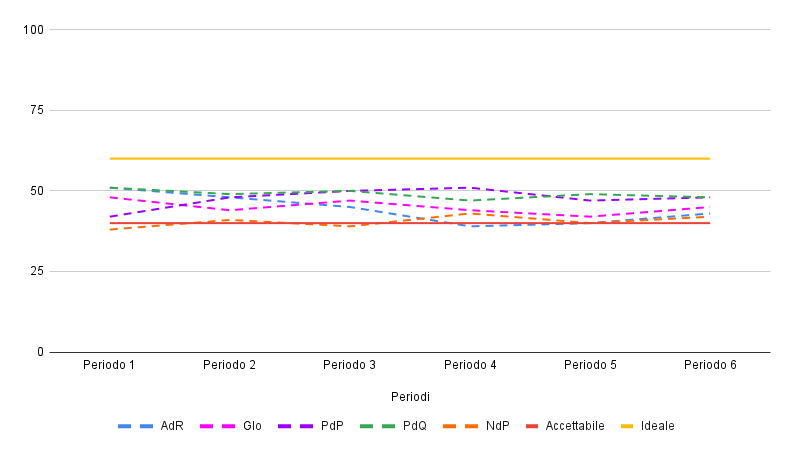
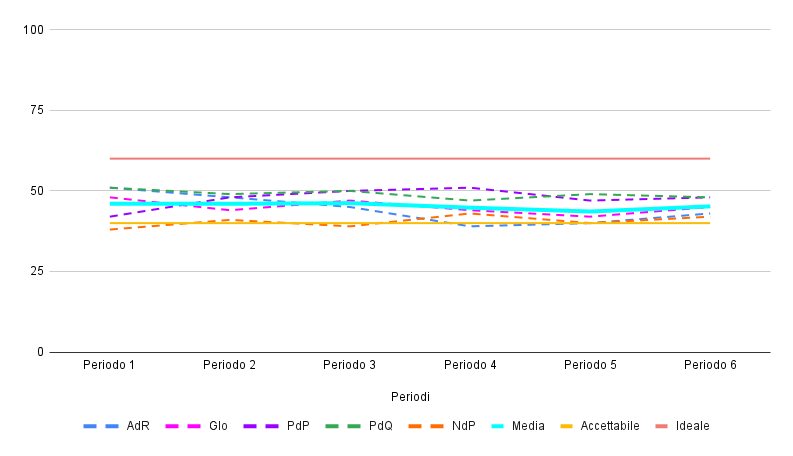
Aggiunta metrica metriche rispettate

Changed region(s): [[0.1211, 0.4298, 0.9079, 0.4912], [0.0908, 0.9211, 0.9079, 0.9518], [0.1513, 0.3377, 0.9079, 0.3684]]

diff --git a/RTB/Piano_di_Qualifica.tex b/RTB/Piano_di_Qualifica.tex
@@ -763,12 +763,22 @@ A questo proposito il gruppo si porrà in futuro l'obiettivo di migliorare il va
 
 
 \subsection{Qualità di processo - Gestione della qualità}
-\subsubsection{MPC01 - Metriche di qualità soddisfatte}
-% Inserire grafico
-\textbf{RTB}: Sul subito tutte le metriche inizialmente stabilite venivano applicate, anche se magari non perfettamente. Grazie al loro numero limitato il team è 
-riuscito ad applicarle ma data l'inesperienza all'inizio ci sono state delle difficoltà. Con il tempo però, l'aggiunta di ulteriori metriche (alcune delle quali 
-sconosciute ai membri del team) ha aumentato ulteriormente la difficoltà. Ma dopo un primo periodo di apprendimento e adeguamento a queste metriche abbiamo superato 
-il limite inferiore.
+\subsubsection{MPC15 - Metriche di qualità soddisfatte}
+
+\begin{figure}[H]
+  \centering
+  \includegraphics[width=0.9\linewidth]{metricheRispettate.png}
+  \caption{Grafico a linee della metrica "metriche di qualità soddisfatte"}
+  \label{fig:metricheRispettate_chart}
+\end{figure}
+
+\textbf{RTB}: Questa metrica rispecchia la capacità del team di rispettare i valori accettabili delle altre metriche misurata nel corso del progetto. Dall'analisi del suo 
+grafico emerge che il gruppo è sempre riuscito a garantire il rispetto di più dell'90\% delle metriche misurate. Ciò è un segnale chiaramente positivo che dimostra
+un buon lavoro del gruppo dal punto di vista della gestione della qualità.\\
+Detto ciò è però bene notare che il gruppo, in solo uno dei precedenti sei periodi, ha raggiunto il valore ideale (100\%), quindi ci sono comunque importanti margini
+di miglioramento da perseguire.\\
+Un'ultima nota va aggiunta per specificare che il gruppo ha scelto di considerare la metrica relativa all'indice di Gulpease, che sia applica a cinque documenti distinti, come 
+una metrica unica facendo la media dei cinque valori misurati.\\
 
 %%%%%%%%%%%%%%%%%%%%%%%%%%%%%%%%%%%%%%%%%%%%%%%%%%%%%%%%%%%%%%%%%%%%%%%%%%%%%%%%%%%%%%%%%%%%%%%%%%%%%%%%%%%%%%%%%%%%%%%%%%%%%%%%%%%%%%%%%%%%%%%%%
 %% Queste metriche vanno posizionato sotto la sezione finale in cui si decide di metterli (probabilmente rispettivamente in fornitura e sviluppo)
@@ -779,11 +789,11 @@ il limite inferiore.
 %% che il progetto sta utilizzando le risorse in modo efficiente, mentre un valore minore di 1 indica che il progetto
 %% sta utilizzando le risorse in modo inefficiente.
 %% CPI = EV / AC
-\subsubsection{MPC01 - Cost performance index (CPI)}
-% Inserire grafico
-\textbf{RTB}: Il grafico mostra che il CPI è prossimo ad 1 ma con un leggero calo nel periodo 3. Questo è dovuto al fatto che in questo periodo il team ha ricoperto 
-ruoli più onerosi. Questo ha portato a un aumento dei costi e quindi a un calo del CPI. Questo calo è comunque accettabile e non preoccupante dato che nel periodo 
-3 dato il calo di lavoro e avendo ricoperto ruoli più economici c'è stato un bilanciamento.
+% \subsubsection{MPC01 - Cost performance index (CPI)}
+% % Inserire grafico
+% \textbf{RTB}: Il grafico mostra che il CPI è prossimo ad 1 ma con un leggero calo nel periodo 3. Questo è dovuto al fatto che in questo periodo il team ha ricoperto 
+% ruoli più onerosi. Questo ha portato a un aumento dei costi e quindi a un calo del CPI. Questo calo è comunque accettabile e non preoccupante dato che nel periodo 
+% 3 dato il calo di lavoro e avendo ricoperto ruoli più economici c'è stato un bilanciamento.
 
 %% Questa metrica la percentuale di requisiti svolti in percentuale di periodo in periodo
 %% Questo dovrebbe valutare la stabilità dei requisiti nel tempo
@@ -795,13 +805,13 @@ ruoli più onerosi. Questo ha portato a un aumento dei costi e quindi a un calo 
 % RC: numero di requisiti cambiati nel periodo considerato;
 % RR: numero di requisiti rimossi nel periodo considerato;
 % TR: numero totale di requisiti al momento dell’analisi.
-\subsubsection{MPC01 - Requirements stability index (RSI)}
-% Inserire grafico
-\textbf{RTB}: Questo grafico serve a mostrare l'avanzamento del progresso dei requisiti svolti nel tempo, indicando anche la stabilità nel progresso dei requisiti 
-in percentuale. Inizialmente ovviamente nel primo periodo era a 0. La maggior parte dei progressi sono stati fatti nel 3 periodo con l'analisi dei requisiti e le norme 
-di progetto e nel 5 periodo con la finalizzazione della documentazione citata precedentemente e il completamento del PoC. Il 4 periodo ha segnato un calo dovuto alle 
-festività natalizie, mentre il 6 periodo ha segnato un calo dovuto alla persante revisione della documentazione. Questo indice è molto importante per valutare la 
-stabilità dei requisiti nel tempo e per valutare l'efficienza del team nel soddisfare i requisiti.
+% \subsubsection{MPC01 - Requirements stability index (RSI)}
+% % Inserire grafico
+% \textbf{RTB}: Questo grafico serve a mostrare l'avanzamento del progresso dei requisiti svolti nel tempo, indicando anche la stabilità nel progresso dei requisiti 
+% in percentuale. Inizialmente ovviamente nel primo periodo era a 0. La maggior parte dei progressi sono stati fatti nel 3 periodo con l'analisi dei requisiti e le norme 
+% di progetto e nel 5 periodo con la finalizzazione della documentazione citata precedentemente e il completamento del PoC. Il 4 periodo ha segnato un calo dovuto alle 
+% festività natalizie, mentre il 6 periodo ha segnato un calo dovuto alla persante revisione della documentazione. Questo indice è molto importante per valutare la 
+% stabilità dei requisiti nel tempo e per valutare l'efficienza del team nel soddisfare i requisiti.
 
 % Le due sezioni sottostanti saranno da completare per la PB
 % \subsection{Qualità di processo - analisi dei requisiti}
